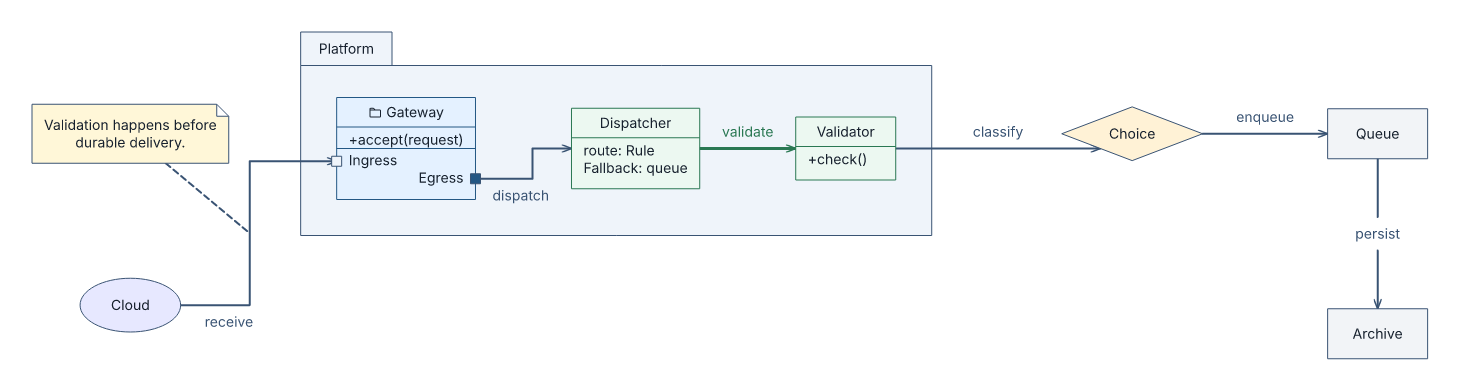
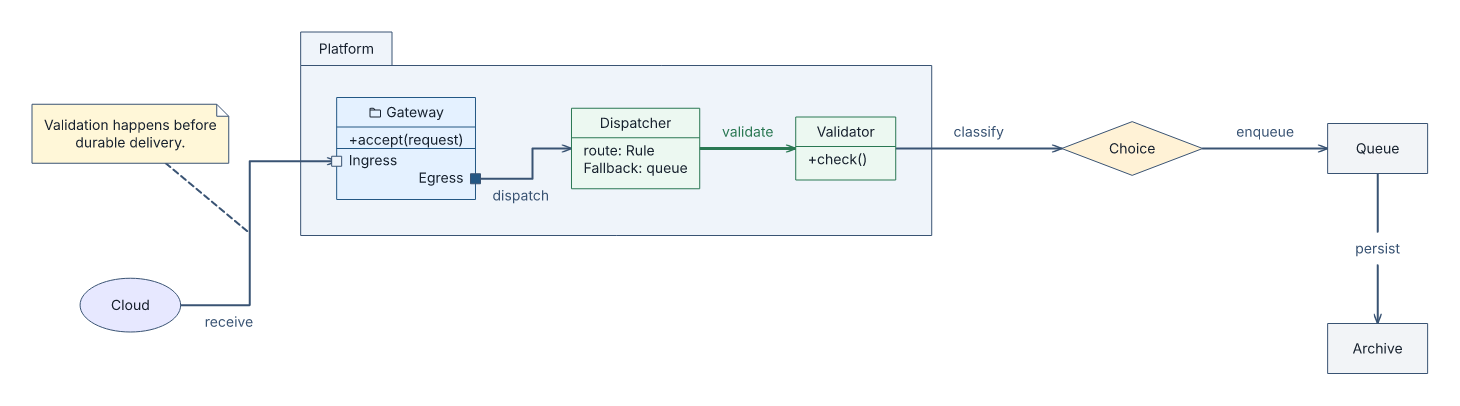
Align generic relation endpoints across containers by default

diff --git a/src/geometry/containers.rs b/src/geometry/containers.rs
@@ -1,7 +1,9 @@
 //! Place children inside measured containers before solving the outer graph.
 use super::{BoxNode, GeometryError, constraints};
 use crate::styles::StyleSheet;
-use crate::syntax::{Alignment, Axis, Diagram, LayoutRule, NodeKind, Placement, ScopedAlignment};
+use crate::syntax::{
+    Alignment, Axis, Diagram, FlowDirection, LayoutRule, NodeKind, Placement, ScopedAlignment,
+};
 
 fn err(line: usize, message: impl Into<String>) -> GeometryError {
     GeometryError {
@@ -98,6 +100,60 @@ fn projected_alignment(
     }
 }
 
+// A connection can join a child in this scope to a node outside its frame.
+// Prefer aligning the visible endpoint centers, not the frame centers, when
+// laying out the containing groups. This remains subordinate to layout rules.
+fn relation_alignments(
+    diagram: &Diagram,
+    boxes: &[BoxNode],
+    local: &[BoxNode],
+    parent: Option<&str>,
+) -> Vec<ScopedAlignment> {
+    if !matches!(
+        diagram.settings.direction,
+        FlowDirection::LeftToRight | FlowDirection::RightToLeft
+    ) {
+        return Vec::new();
+    }
+    diagram
+        .relations
+        .iter()
+        .filter_map(|relation| {
+            let from = boxes
+                .iter()
+                .find(|node| node.has_endpoint(&relation.from))?;
+            let to = boxes.iter().find(|node| node.has_endpoint(&relation.to))?;
+            // A named port or member has its own measured attachment position.
+            if relation.from != from.id
+                || relation.to != to.id
+                || from.kind != NodeKind::Generic
+                || to.kind != NodeKind::Generic
+            {
+                return None;
+            }
+            let a = direct_owner(diagram, &relation.from, parent)?;
+            let b = direct_owner(diagram, &relation.to, parent)?;
+            if a == b {
+                return None;
+            }
+            let owner_a = local.iter().find(|node| node.id == a)?;
+            let owner_b = local.iter().find(|node| node.id == b)?;
+            let center = |node: &BoxNode| node.y + node.height / 2.0;
+            Some(ScopedAlignment {
+                first: a,
+                second: b,
+                axis: Axis::Vertical,
+                delta: owner_a.height / 2.0 + center(from)
+                    - center(owner_a)
+                    - owner_b.height / 2.0
+                    - center(to)
+                    + center(owner_b),
+                line: 0,
+            })
+        })
+        .collect()
+}
+
 fn scope(
     diagram: &Diagram,
     boxes: &mut [BoxNode],
@@ -180,7 +236,8 @@ fn scope(
             Some(mapped)
         })
         .collect();
-    constraints::place(&graph, &mut local, styles)?;
+    let preferred = relation_alignments(diagram, boxes, &local, parent);
+    constraints::place(&graph, &mut local, styles, &preferred)?;
     if local.is_empty() {
         return Ok(());
     }

diff --git a/src/geometry/constraints.rs b/src/geometry/constraints.rs
@@ -1,6 +1,6 @@
 use super::nodes::BoxNode;
 use crate::styles::{Element, StyleSheet, Value};
-use crate::syntax::{Alignment, Axis, Diagram, FlowDirection, Placement};
+use crate::syntax::{Alignment, Axis, Diagram, FlowDirection, Placement, ScopedAlignment};
 use crate::text::measure;
 
 #[derive(Clone, Debug)]
@@ -122,6 +122,7 @@ pub fn place(
     diagram: &Diagram,
     boxes: &mut [BoxNode],
     styles: &StyleSheet,
+    soft_alignments: &[ScopedAlignment],
 ) -> Result<(), GeometryError> {
     let n = boxes.len();
     // The preferred centre is independent of the measured size. Expansion
@@ -340,6 +341,20 @@ pub fn place(
             } else {
                 try_soft(n, &eq_y, &mut y, bound, &pref_y);
             }
+        }
+    }
+    // Optional center alignment follows actual relation endpoints (including
+    // children of containers), but never overrides mandatory placement.
+    for rule in soft_alignments {
+        let candidate = Equality {
+            a: find(&rule.first),
+            b: find(&rule.second),
+            delta: rule.delta,
+            line: 0,
+        };
+        eq_y.push(candidate);
+        if solve_axis(n, &eq_y, &y, &pref_y).is_err() {
+            eq_y.pop();
         }
     }
     // Preserve earlier node positions where possible: move the later node's

diff --git a/tests/generic_port_routing.rs b/tests/generic_port_routing.rs
@@ -40,7 +40,29 @@ fn named_ports_exit_normally_and_nearby_generic_nodes_connect_horizontally() {
 
     let classify = named("decide");
     assert_eq!(classify.len(), 2);
-    assert!((classify[0].y - classify[1].y).abs() < 1e-6);
+    let center_y = |id: &str| {
+        let node = boxes.iter().find(|node| node.id == id).unwrap();
+        node.y + node.height / 2.0
+    };
+    assert!((classify[0].y - center_y("Platform.Validator")).abs() < 1e-6);
+    assert!((classify[1].y - center_y("Choice")).abs() < 1e-6);
+    let enqueue = named("buffer");
+    assert!((enqueue[0].y - center_y("Choice")).abs() < 1e-6);
+    assert!((enqueue[1].y - center_y("Queue")).abs() < 1e-6);
+}
+
+#[test]
+fn automatic_relation_alignment_yields_to_mandatory_vertical_layout() {
+    let source = "semantics {\nA\nB\nA -> B\n}\nlayout {\nA above B : gap=60\n}\n";
+    let graph = parse(source).unwrap();
+    let boxes = place(
+        &graph,
+        &load(&graph, Path::new("examples/gne-basic.laml")).unwrap(),
+    )
+    .unwrap();
+    let a = boxes.iter().find(|node| node.id == "A").unwrap();
+    let b = boxes.iter().find(|node| node.id == "B").unwrap();
+    assert!(a.y + a.height + 60.0 <= b.y + 1e-6);
 }
 
 #[test]

diff --git a/docs/language-definition.md b/docs/language-definition.md
@@ -19,7 +19,7 @@ A rule such as `A < B : align=center; gap=24` separates the **boxes** horizontal
 
 Node dimensions are measured with bundled Inter Regular before solving placement. The default minimum box is 100 × 50 pixels with 12 pixels of padding and 14-pixel text. Explicit line breaks determine node text lines; fixed generic boxes can ellipsize overflow at grapheme boundaries, whereas UML classifier text must fit without truncation. A box too small for one line and its padding fails. Node boxes must not overlap in a successful image. Package frames enclose and measure their descendants; a fixed frame that cannot contain them fails. Named ports and members attach at measured boundary positions, with hidden or dangling references rejected.
 
-Directed relations guide *automatic* placement in declaration order. A later relation closing a directional-preference cycle loses that preference, but remains a relation to draw. Explicit rules take priority over automatic preferences; they cannot be removed to make a diagram fit. With neither relations nor placement rules, nodes are arranged top-to-bottom in declaration order. The same source, styles, and compiler environment yield the same placement. Editing source can change automatic positions; no previous render is consulted.
+Directed relations guide *automatic* placement in declaration order. A later relation closing a directional-preference cycle loses that direction preference but remains drawn. For horizontal flow, generic node relations also prefer to align their visible endpoints' vertical centres, including across a container boundary. This is a preference, not an extra layout rule: explicit rules take priority over automatic preferences and cannot be removed to make a diagram fit. With neither relations nor placement rules, nodes are arranged top-to-bottom in declaration order. The same source, styles, and compiler environment yield the same placement. Editing source can change automatic positions; no previous render is consulted.
 
 ## Routing and label placement
 
